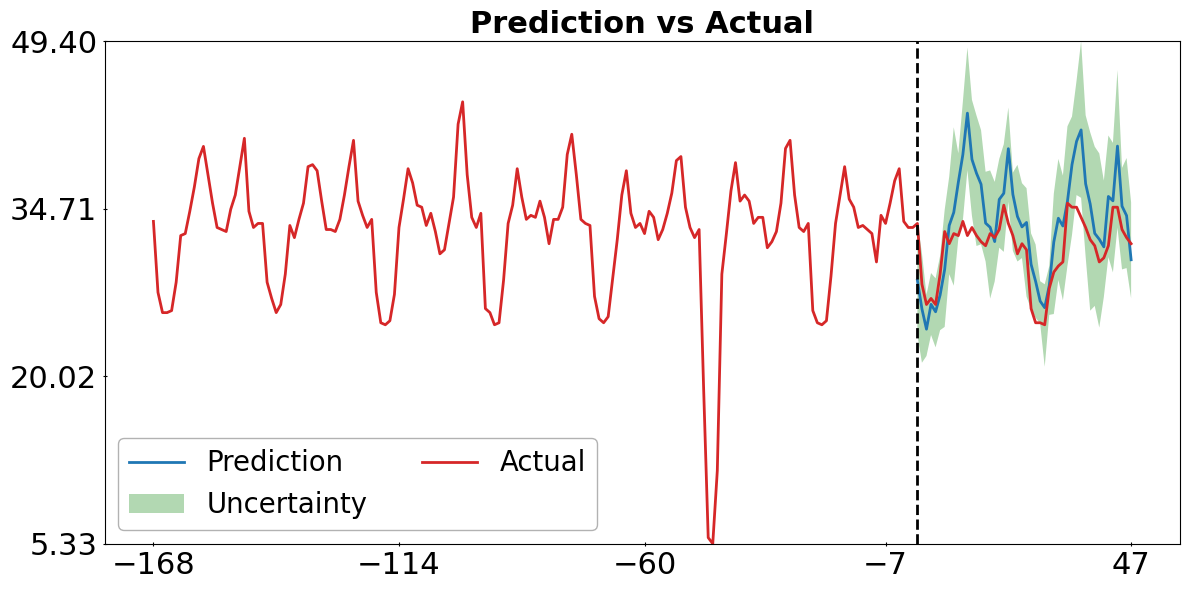
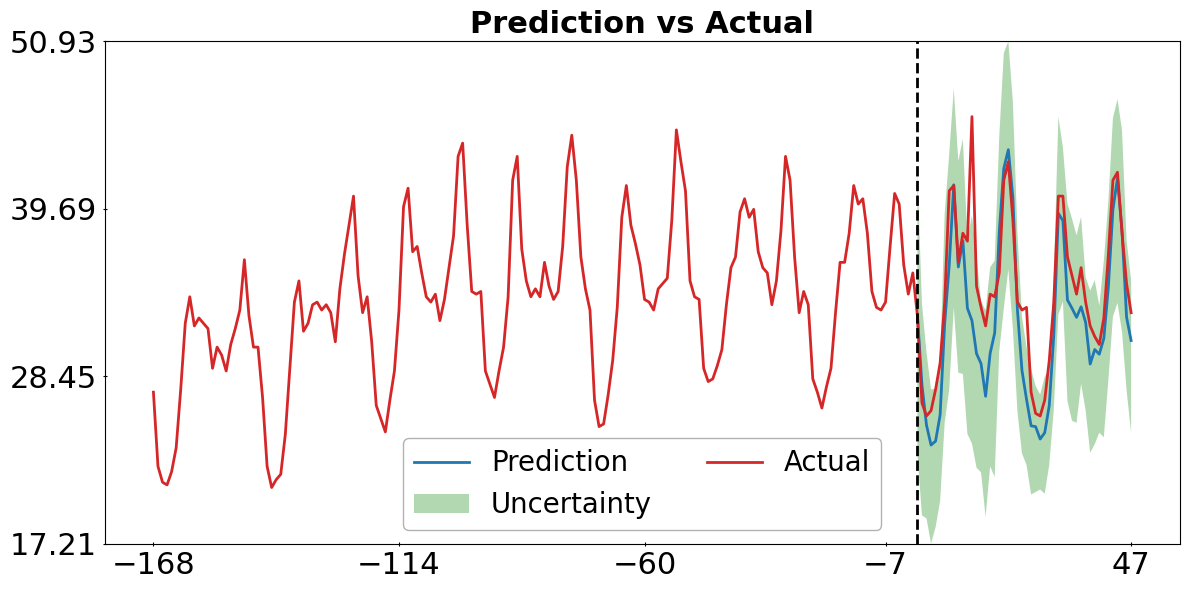
refactor: quantile loss

diff --git a/metric.py b/metric.py
@@ -9,20 +9,40 @@ class QuantileLoss(nn.Module):
 
     def __init__(self, quantiles: List[float]) -> None:
         super(QuantileLoss, self).__init__()
+        assert len(quantiles) % 2 == 1, "Quantiles list length should be odd."
         self.quantiles = quantiles
+
+    @staticmethod
+    def quantile_loss(y_pred: torch.Tensor, y_true: torch.Tensor, tau: float) -> torch.Tensor:
+        """Compute quantile loss"""
+        loss = torch.where(y_true >= y_pred, tau * (y_true - y_pred), (1 - tau) * (y_pred - y_true))
+        return torch.mean(loss)
+
+    @staticmethod
+    def weighted_quantile_loss(
+        y_pred: torch.Tensor, y_true: torch.Tensor, tau: float
+    ) -> torch.Tensor:
+        """Compute quantile loss"""
+        zero_tensor = torch.tensor(0.0, device=y_true.device, dtype=y_true.dtype)
+        nom = torch.sum(
+            tau * torch.max(y_true - y_pred, zero_tensor)
+            + (1.0 - tau) * torch.max(y_pred - y_true, zero_tensor)
+        )
+        dnom = torch.sum(torch.abs(y_true))
+        if dnom == 0:
+            return torch.tensor(0.0, device=y_true.device, dtype=y_true.dtype)
+
+        loss = 2 * nom / dnom
+        return torch.mean(loss)
 
     def forward(self, y_pred: torch.Tensor, y_true: torch.Tensor) -> torch.Tensor:
         """Compute loss"""
         assert y_pred.shape[:2] == y_true.shape[:2]
-
-        losses = []
-
+        total_loss = 0.0
         for i, tau in enumerate(self.quantiles):
-            # TODO: need to handle multi-variates
-            errors = y_true - y_pred[..., [i]]
-            loss = torch.max((tau - 1) * errors, tau * errors)
-            losses.append(loss)
+            # TODO: need to handle multi-variates)
+            total_loss += self.weighted_quantile_loss(
+                y_pred=y_pred[..., [i]], y_true=y_true, tau=tau
+            )
 
-        losses = 2 * torch.cat(losses, dim=2)
-
-        return losses.mean()
+        return total_loss / len(self.quantiles)

diff --git a/runner.py b/runner.py
@@ -81,9 +81,13 @@ def main():
     raw_df = load_data_from_txt()
 
     # Config
+    quantile = [0.05, 0.1, 0.15, 0.2, 0.25, 0.3, 0.4, 0.5, 0.6, 0.7, 0.75, 0.8, 0.85, 0.9, 0.95]
     cfg = TFTConfig(
-        dynamic_cat_encoder=["hour", "day_of_week", "month", "day_of_year"],
-        dynamic_cat_decoder=["hour", "day_of_week", "month", "day_of_year", "time_idx"],
+        quantiles=quantile,
+        output_size=len(quantile),
+        time_cat_features=["hour", "day_of_week", "day", "month"],
+        dynamic_cat_encoder=["hour", "day_of_week", "day", "month"],
+        dynamic_cat_decoder=["hour", "day_of_week", "day"],
         dynamic_cont_encoder=["power_usage"],
         static_cats=["data_id"],
         cont_transform_method={"power_usage": "softplus"},
@@ -119,15 +123,10 @@ def main():
         batch_size=cfg.batch_size,
         shuffle=True,
         collate_fn=custom_collate_fn,
-        pin_memory=True,
         num_workers=2,
     )
     val_dataloader = DataLoader(
-        val_dataset,
-        batch_size=cfg.batch_size,
-        collate_fn=custom_collate_fn,
-        pin_memory=True,
-        num_workers=2,
+        val_dataset, batch_size=cfg.batch_size, collate_fn=custom_collate_fn, num_workers=2
     )
     test_dataloader = DataLoader(test_dataset, batch_size=1, collate_fn=custom_collate_fn)
 

diff --git a/config.py b/config.py
@@ -52,11 +52,11 @@ class TFTConfig:
     num_epochs: int = 10
     batch_size: int = 128
     output_size: Union[List[int], int] = 7
-    hidden_size: int = 64
+    hidden_size: int = 150
     num_lstm_layers: int = 1
     num_attn_head_size: int = 4
     dropout: float = 0.1
-    hidden_cont_size: int = 64
+    hidden_cont_size: int = 150
     decoder_len: int = 48
     encoder_len: int = 168
     lr: float = 3.5e-4
@@ -72,7 +72,9 @@ class TFTConfig:
 
     # User-specidied data variables
     target_var: List[str] = field(default_factory=list)
-    time_cat_features = ["hour", "day_of_week", "day_of_year", "month"]
+    time_cat_features: List[str] = field(
+        default_factory=lambda: ["hour", "day_of_week", "day_of_year", "month"]
+    )
     dynamic_cat_encoder: List[str] = field(default_factory=list)
     dynamic_cat_decoder: List[str] = field(default_factory=list)
     dynamic_cont_encoder: List[str] = field(default_factory=list)

diff --git a/data_preprocessor.py b/data_preprocessor.py
@@ -763,8 +763,8 @@ class Preprocessor:
     def split_data(
         data_frame: pd.DataFrame,
         total_seq_len: int,
-        train_ratio: float = 0.8,
-        val_ratio: float = 0.1,
+        train_ratio: float = 0.7,
+        val_ratio: float = 0.15,
     ) -> dict:
         """Split data frame into train, validation, and test sets"""
 

diff --git a/README.md b/README.md
@@ -31,21 +31,24 @@ unzip LD2011_2014.txt.zip
 python runner.py
 ```
 
-### Results
+### Power Usage Prediction
 <p align="center">
-  <div>
-    <img src="./figure/prediction.png" width="340px" style="display: inline-block; margin-right: 70px;">
-    <img src="./figure/encoder_var_score.png" width="340px" style="display: inline-block;">
-  </div>
-  <div style="margin-top: 20px;">
-    <img src="./figure/decoder_var_score.png" width="340px" style="display: inline-block; margin-right: 70px;">
-    <img src="./figure/static_var_score.png" width="340px" style="display: inline-block;">
-  </div>
-  <div style="margin-top: 20px;">
-    <img src="./figure/heat_map_attention_score.png" width="340px" style="display: inline-block; margin-right: 70px;">
-    <img src="./figure/attention_score.png" width="340px" style="display: inline-block;">
-  </div>
+  <img src="./figure/prediction.png" width="340px">
+  &nbsp;&nbsp;&nbsp;&nbsp;&nbsp;&nbsp;&nbsp;&nbsp;&nbsp;&nbsp;
+  <img src="./figure/heat_map_attention_score.png" width="340px">
   
+</p>
+
+<p align="center" style="margin-top: 20px;">
+  <img src="./figure/attention_score.png" width="340px">
+  &nbsp;&nbsp;&nbsp;&nbsp;&nbsp;&nbsp;&nbsp;&nbsp;&nbsp;&nbsp;
+  <img src="./figure/encoder_var_score.png" width="340px">
+</p>
+
+<p align="center" style="margin-top: 20px;">
+  <img src="./figure/decoder_var_score.png" width="340px">
+  &nbsp;&nbsp;&nbsp;&nbsp;&nbsp;&nbsp;&nbsp;&nbsp;&nbsp;&nbsp;
+  <!-- <img src="./figure/static_var_score.png" width="340px"> -->
 </p>
 
 
